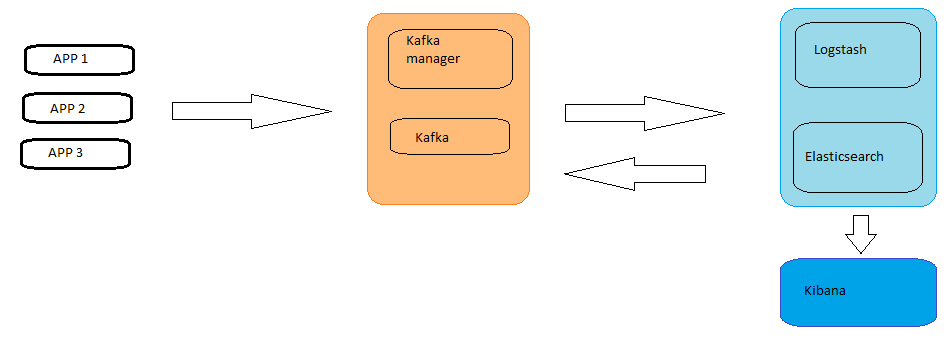
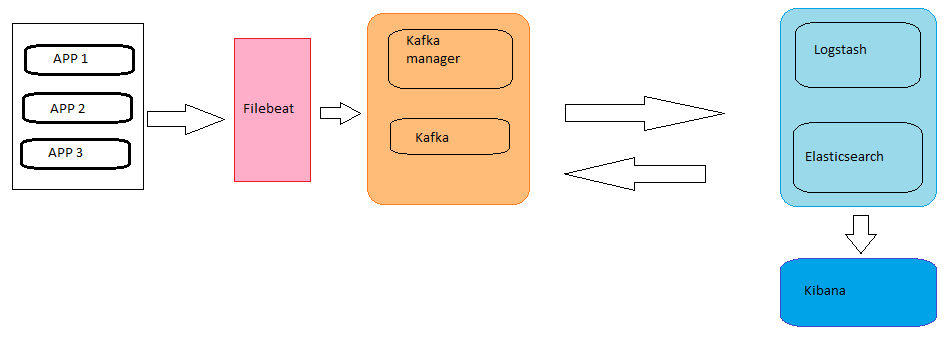
hw 11.3

Changed region(s): [[0.1528, 0.088, 0.3667, 0.5572], [0.1222, 0.5279, 0.1528, 0.5572], [0.1222, 0.0587, 0.1528, 0.088]]

diff --git a/README.md b/README.md
@@ -25,6 +25,9 @@ Gitlab CI больше подойдет для выполнения постав
 
 ### Задача 2
 
+Для сбора логов можно использовать
+
 ![1](https://raw.githubusercontent.com/Evgeniy-Nikolskiy/hw-11.3/main/assets/logs.png)
+
 
 ### Задача 3
